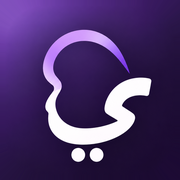
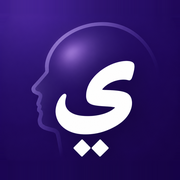
Add files via upload

diff --git a/sw.js b/sw.js
@@ -1,4 +1,4 @@
-const CACHE='daily-health-v1.8.23-pwa-paths-20261028';
+const CACHE='daily-health-v1.8.23-logo-v2-20261028';
 const CORE=['./','./index.html','./styles.css','./app.js','./storage.js','./ocr.js','./manifest.webmanifest','./icon-192.png','./icon-512.png','./apple-touch-icon.png'];
 self.addEventListener('install',event=>{event.waitUntil(caches.open(CACHE).then(c=>c.addAll(CORE)).then(()=>self.skipWaiting()))});
 self.addEventListener('activate',event=>{event.waitUntil(Promise.all([caches.keys().then(keys=>Promise.all(keys.filter(k=>k.startsWith('daily-health-')&&k!==CACHE).map(k=>caches.delete(k)))),self.clients.claim()]))});
